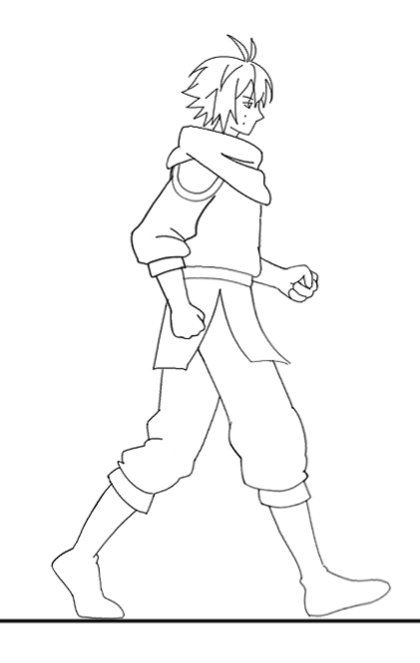
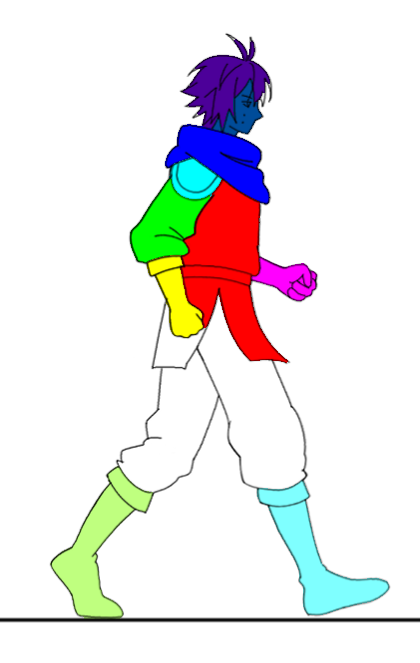
composite final render with colorize results, added fallback for transferUV if no textures are provided

diff --git a/src/textoon.cpp b/src/textoon.cpp
@@ -83,31 +83,56 @@ void Textoon::processFrames(const QString &inputFolder)
 
     if (fileList.isEmpty()) return;
 
+    // Load textures from texture/ subfolder
+    QDir texDir(inputFolder + "/texture");
+    QStringList texFilters;
+    texFilters << "*.png" << "*.jpg" << "*.bmp";
+    QFileInfoList texFiles = texDir.entryInfoList(texFilters, QDir::Files, QDir::Name);
+
+    // Map from color region -> texture image
+    // textures are named by their seg color hex e.g. ff0000.png and must be same size as frame
+    QMap<QRgb, QImage> textureMap;
+    for (const QFileInfo& f : texFiles)
+    {
+        bool ok = false;
+        QRgb color = f.baseName().toUInt(&ok, 16);
+        if (ok)
+        {
+            QImage tex(f.absoluteFilePath());
+            if (!tex.isNull())
+                textureMap[color] = tex.convertToFormat(QImage::Format_RGB32);
+        }
+    }
+
     // -------------------------------------
     // initialize reference frame
     // -------------------------------------
     FrameState prev;
 
+    QImage rawLine0  = QImage(fileList[0].absoluteFilePath());
     prev.image = QImage(fileList[0].absoluteFilePath());
 
+    QString debugDir = inputFolder + "/miscellanea";
+    QDir().mkpath(debugDir);
+
     prev.scribbles = loadInitialScribbles(inputFolder);
+    prev.scribbles.save(debugDir + "/scribbles_0000.png");
 
     // get lazybrush segmentation
     prev.segmentation = scribbleContext->colorize(prev.scribbles);
-
-    // QDir().mkpath(inputFolder + "/miscellanea");
-
-    // QString filename = inputFolder + "/miscellanea/segmentation.png";
-
-    // if (!prev.segmentation.save(filename)) {
-    //     std::cerr << "Failed to save seg." << std::endl;
-    // }
+    prev.segmentation.save(debugDir + "/segmentation_0000.png");
+    auto region0 = extractRegions(prev.segmentation);
 
     // Initialize UV (identity)
     prev.uv = initUV(prev.image.width(), prev.image.height());
 
+    // color with segmentation colors
+    prev.image = applySegmentationColors(rawLine0, prev.segmentation);
+
     // Render F0
-    QImage rendered0 = render(prev.image, prev.uv);
+    QImage rendered0 = textureMap.isEmpty()
+                           ? prev.image
+                           : textureInitFrame(rawLine0, prev.image, region0, textureMap);
     rendered0.save(outputFolder + "/frame_0000.png");
 
     // -------------------------------------
@@ -117,7 +142,9 @@ void Textoon::processFrames(const QString &inputFolder)
     {
         FrameState curr;
 
+        QImage rawLine = QImage(fileList[i].absoluteFilePath());
         curr.image = QImage(fileList[i].absoluteFilePath());
+        QString frameId = QString("%1").arg(i, 4, 10, QChar('0'));
 
         // Load ARAP map
         auto map_x = loadCsv(inputFolder.toStdString() + "/map_x_" + std::to_string(i) + ".csv");
@@ -130,18 +157,23 @@ void Textoon::processFrames(const QString &inputFolder)
 
         // Transfer scribbles
         curr.scribbles = warpImage(prev.scribbles, W);
+        curr.scribbles.save(debugDir + "/scribbles_" + frameId + ".png");
 
         // LazyBrush segmentation
         curr.segmentation = scribbleContext->colorize(curr.scribbles);
-
-        // extract regions
+        curr.segmentation.save(debugDir + "/segmentation_" + frameId + ".png");
         auto regions = extractRegions(curr.segmentation);
+
+        // color with segmentation colors
+        curr.image = applySegmentationColors(rawLine, curr.segmentation);
 
         // UV transfer
         curr.uv = transferUV(prev.uv, W, regions);
 
         // Render
-        QImage rendered = render(curr.image, curr.uv);
+        QImage rendered = textureMap.isEmpty()
+                              ? curr.image
+                              : render(rawLine, curr.image, curr.uv, regions, textureMap);
 
         QString out = outputFolder + QString("/frame_%1.png").arg(i, 4, 10, QChar('0'));
         rendered.save(out);
@@ -162,6 +194,42 @@ std::vector<std::vector<Textoon::UV>> Textoon::initUV(int w, int h)
             T[y][x] = { float(x) / w, float(y) / h };
 
     return T;
+}
+
+QImage Textoon::textureInitFrame(
+    const QImage&                              lineArt,
+    const QImage&                              coloredLineArt,
+    const std::map<QRgb, std::vector<QPoint>>& regions,
+    const QMap<QRgb, QImage>&                  textureMap)
+{
+    QImage out  = coloredLineArt.convertToFormat(QImage::Format_RGB32);
+    QImage line = lineArt.convertToFormat(QImage::Format_RGB32);
+
+    for (const auto& [color, pixels] : regions)
+    {
+        if (!textureMap.contains(color))
+            continue;
+
+        const QImage& tex = textureMap[color];
+
+        for (const QPoint& p : pixels)
+        {
+            int x = p.x();
+            int y = p.y();
+
+            // texture pixel directly maps to frame pixel
+            QRgb texPx  = reinterpret_cast<const QRgb*>(tex.scanLine(y))[x];
+            QRgb linePx = reinterpret_cast<const QRgb*>(line.scanLine(y))[x];
+
+            int r = (qRed(linePx)   * qRed(texPx))   / 255;
+            int g = (qGreen(linePx) * qGreen(texPx)) / 255;
+            int b = (qBlue(linePx)  * qBlue(texPx))  / 255;
+
+            reinterpret_cast<QRgb*>(out.scanLine(y))[x] = qRgb(r, g, b);
+        }
+    }
+
+    return out;
 }
 
 std::vector<std::vector<QPointF>>
@@ -378,6 +446,49 @@ QImage Textoon::warpImage(
     return dst;
 }
 
+QImage Textoon::applySegmentationColors(
+    const QImage& lineArt,
+    const QImage& segmentation)
+{
+    int w = lineArt.width();
+    int h = lineArt.height();
+    QImage out(w, h, QImage::Format_ARGB32);
+
+    QImage line = lineArt.convertToFormat(QImage::Format_ARGB32);
+    QImage seg  = segmentation.convertToFormat(QImage::Format_ARGB32);
+
+    for (int y = 0; y < h; ++y)
+    {
+        const QRgb* lineRow = (const QRgb*)line.scanLine(y);
+        const QRgb* segRow  = (const QRgb*)seg.scanLine(y);
+        QRgb*       outRow  = (QRgb*)out.scanLine(y);
+
+        for (int x = 0; x < w; ++x)
+        {
+            QRgb linePx = lineRow[x];
+            QRgb segPx  = segRow[x];
+
+            bool hasSeg = qAlpha(segPx) > 10;
+
+            if (!hasSeg)
+            {
+                // No seg region, just show base lineart img
+                outRow[x] = linePx;
+            }
+            else
+            {
+                // Multiply blend
+                int r = (qRed(linePx)   * qRed(segPx))   / 255;
+                int g = (qGreen(linePx) * qGreen(segPx)) / 255;
+                int b = (qBlue(linePx)  * qBlue(segPx))  / 255;
+
+                outRow[x] = qRgba(r, g, b, 255);
+            }
+        }
+    }
+    return out;
+}
+
 std::vector<std::vector<Textoon::UV>>
 Textoon::transferUV(
     const std::vector<std::vector<UV>>& prevUV,
@@ -496,30 +607,45 @@ Textoon::transferUV(
 }
 
 QImage Textoon::render(
-    const QImage& sourceTexture,
-    const std::vector<std::vector<UV>>& T)
+    const QImage&                              lineArt,
+    const QImage&                              coloredLineArt,  // output of applySegmentationColors
+    const std::vector<std::vector<UV>>&        T,
+    const std::map<QRgb, std::vector<QPoint>>& regions,
+    const QMap<QRgb, QImage>&                  textureMap)
 {
-    int w = sourceTexture.width();
-    int h = sourceTexture.height();
+    int w = lineArt.width();
+    int h = lineArt.height();
 
-    QImage src = sourceTexture.convertToFormat(QImage::Format_RGB32);
+    QImage out  = coloredLineArt.convertToFormat(QImage::Format_RGB32);
+    QImage line = lineArt.convertToFormat(QImage::Format_RGB32);
 
-    QImage out(w, h, QImage::Format_RGB32);
-
-    for (int y = 0; y < h; ++y)
+    for (const auto& [color, pixels] : regions)
     {
-        QRgb* outLine = reinterpret_cast<QRgb*>(out.scanLine(y));
+        if (!textureMap.contains(color))
+            continue; // no texture for this region, flat color stays
 
-        for (int x = 0; x < w; ++x)
+        const QImage& tex = textureMap[color]; // same size as frame, Format_RGB32
+
+        for (const QPoint& p : pixels)
         {
+            int x = p.x();
+            int y = p.y();
+
             float u = std::clamp(T[y][x].u, 0.f, 1.f);
             float v = std::clamp(T[y][x].v, 0.f, 1.f);
 
-            int sx = int(u * (w - 1));
-            int sy = int(v * (h - 1));
+            int tx = int(u * (tex.width()  - 1));
+            int ty = int(v * (tex.height() - 1));
 
-            const QRgb* srcLine = reinterpret_cast<const QRgb*>(src.scanLine(sy));
-            outLine[x] = srcLine[sx];
+            QRgb texPx  = reinterpret_cast<const QRgb*>(tex.scanLine(ty))[tx];
+            QRgb linePx = reinterpret_cast<const QRgb*>(line.scanLine(y))[x];
+
+            // Multiply: texture color under lineart, lines darken through
+            int r = (qRed(linePx)   * qRed(texPx))   / 255;
+            int g = (qGreen(linePx) * qGreen(texPx)) / 255;
+            int b = (qBlue(linePx)  * qBlue(texPx))  / 255;
+
+            reinterpret_cast<QRgb*>(out.scanLine(y))[x] = qRgb(r, g, b);
         }
     }
 

diff --git a/src/textoon.h b/src/textoon.h
@@ -34,6 +34,12 @@ private:
 
     std::vector<std::vector<Textoon::UV>> initUV(int w, int h);
 
+    QImage textureInitFrame(
+        const QImage&                              lineArt,
+        const QImage&                              coloredLineArt,
+        const std::map<QRgb, std::vector<QPoint>>& regions,
+        const QMap<QRgb, QImage>&                  textureMap);
+
     std::vector<std::vector<QPointF>> buildMap(
         const std::vector<std::vector<int>>& map_x,
         const std::vector<std::vector<int>>& map_y);
@@ -44,14 +50,21 @@ private:
         const QImage& src,
         const std::vector<std::vector<QPointF>>& W12);
 
+    QImage applySegmentationColors(
+        const QImage& lineArt,
+        const QImage& segmentation);
+
     std::vector<std::vector<Textoon::UV>> transferUV(
         const std::vector<std::vector<UV>>& prevUV,
         const std::vector<std::vector<QPointF>>& W12,
         const std::map<QRgb, std::vector<QPoint>>& regions);
 
     QImage render(
-        const QImage& sourceTexture,
-        const std::vector<std::vector<UV>>& T);
+        const QImage&                              lineArt,
+        const QImage&                              coloredLineArt,
+        const std::vector<std::vector<UV>>&        T,
+        const std::map<QRgb, std::vector<QPoint>>& regions,
+        const QMap<QRgb, QImage>&                  textureMap);
 };
 
 
